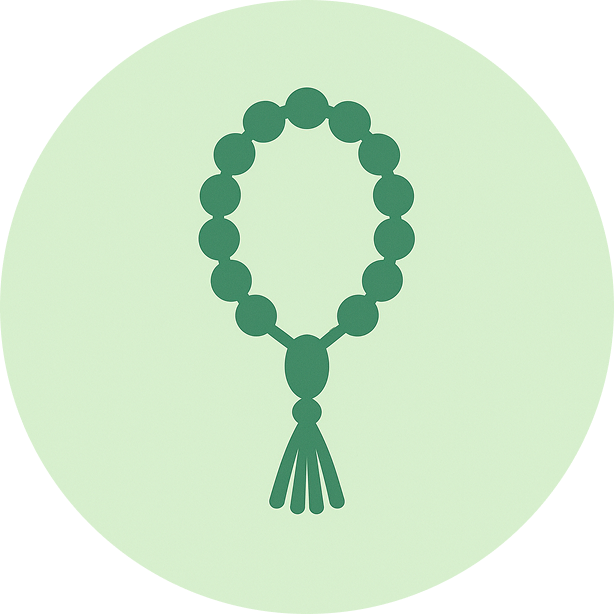
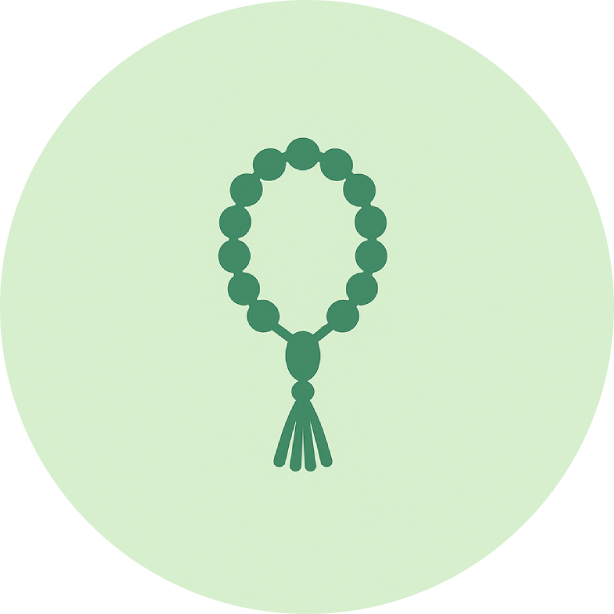
testing 2

Changed region(s): [[0.3094, 0.1238, 0.6808, 0.8355]]

diff --git a/app/_layout.js b/app/_layout.js
@@ -2,6 +2,11 @@ import { GestureHandlerRootView } from 'react-native-gesture-handler';
 import { Drawer } from 'expo-router/drawer';
 import CustomDrawerContent from '../components/CustomDrawerContent';
 import { DhikrProvider } from '../context/DhikrContext';
+import { I18nManager } from 'react-native';
+
+// Force LTR layout regardless of device language
+I18nManager.allowRTL(false);
+I18nManager.forceRTL(false);
 
 export default function Layout() {
     return (

diff --git a/context/DhikrContext.js b/context/DhikrContext.js
@@ -3,7 +3,7 @@ import AsyncStorage from '@react-native-async-storage/async-storage';
 import * as FileSystem from 'expo-file-system/legacy';
 import * as Sharing from 'expo-sharing';
 import * as DocumentPicker from 'expo-document-picker';
-import { Alert, Platform, I18nManager } from 'react-native';
+import { Alert, Platform } from 'react-native';
 import { TRANSLATIONS } from '../constants/constants';
 
 const DhikrContext = createContext();

diff --git a/README_AR.md b/README_AR.md
@@ -1,0 +1,130 @@
+<div dir="rtl">
+
+# سبّح - عداد الأذكار الرقمي
+
+<div align="center">
+
+![شعار سبّح](./assets/icon.png)
+
+**مسبحة إلكترونية للأذكار والصلوات**
+
+*مجانية وبدون إعلانات أو متتبعات. صُنعت خالصة لوجه الله.*
+
+[![GitHub](https://img.shields.io/badge/GitHub-SlaveOfGod1-blue?logo=github)](https://github.com/SlaveOfGod1/Sabbeh)
+
+[English](./README.md)
+
+</div>
+
+---
+
+## ✨ المميزات
+
+### 🔢 العداد الرقمي
+- شاشة رقمية كبيرة وواضحة
+- تتبع الجولات تلقائياً عند الوصول للهدف
+- إعادة ضبط العداد بضغطة واحدة
+
+### 📿 جلسات الذكر
+- **أذكار مخصصة**: أضف أذكارك الخاصة مع عناوين وأهداف مخصصة
+- **التعديل والحذف**: اضغط مطولاً على أي ذكر لتعديله أو حذفه
+- حفظ التقدم لكل جلسة ذكر
+
+### 🎨 الثيمات والتخصيص
+- **٤ ثيمات جاهزة**: فيروزي، بنفسجي، أزرق، وردي
+- **منتقي الألوان**: اختر أي لون يعجبك
+- **الوضع الليلي**: ثيم داكن للاستخدام المريح ليلاً
+
+### 🌍 دعم متعدد اللغات
+مترجم بالكامل لـ ٧ لغات:
+- English (الإنجليزية)
+- العربية
+- Türkçe (التركية)
+- 中文 (الصينية)
+- Bahasa Melayu (المالزية)
+- اردو (الأردية)
+- 日本語 (اليابانية)
+
+### 💾 إدارة البيانات
+- **تصدير الملف الشخصي**: احفظ بياناتك كملف JSON
+- **استيراد الملف الشخصي**: استعد بياناتك من نسخة احتياطية
+- **إعادة ضبط البيانات**: امسح جميع البيانات وابدأ من جديد
+
+### 🛡 الخصوصية أولاً
+- ✅ بدون إعلانات
+- ✅ بدون متتبعات
+- ✅ بدون جمع بيانات
+- ✅ يعمل بدون إنترنت
+
+---
+
+## 🚀 البدء
+
+### المتطلبات
+- [Node.js](https://nodejs.org/) (الإصدار 18 أو أعلى)
+- [npm](https://www.npmjs.com/) أو [yarn](https://yarnpkg.com/)
+- [Expo CLI](https://docs.expo.dev/get-started/installation/)
+
+### التثبيت
+
+1. **استنساخ المستودع**
+   ```bash
+   git clone https://github.com/SlaveOfGod1/Sabbeh.git
+   cd Sabbeh
+   ```
+
+2. **تثبيت التبعيات**
+   ```bash
+   npm install
+   ```
+
+3. **تشغيل خادم التطوير**
+   ```bash
+   npx expo start
+   ```
+
+4. **التشغيل على جهازك**
+   - امسح رمز QR بتطبيق [Expo Go](https://expo.dev/client)
+   - أو اضغط `a` للمحاكي الأندرويد / `i` لمحاكي iOS
+
+---
+
+## 🤝 المساهمة
+
+المساهمات مرحب بها! يمكنك:
+- الإبلاغ عن الأخطاء عبر [GitHub Issues](https://github.com/SlaveOfGod1/Sabbeh/issues)
+- إرسال طلبات السحب
+- اقتراح ميزات جديدة
+
+---
+
+## 📄 الترخيص
+
+هذا المشروع **مجاني للاستخدام الشخصي فقط**.
+
+> ⚠ **تنبيه هام**
+> 
+> - ❌ **الاستخدام التجاري ممنوع منعاً باتاً**
+> - ❌ **بيع أو إعادة توزيع التطبيق لأغراض ربحية غير مسموح**
+> - ❌ **رفع التطبيق على متاجر التطبيقات لأغراض تجارية محظور**
+> - ✅ الاستخدام الشخصي فقط
+> 
+> **مخالفة هذه الشروط ستؤدي إلى إشعار إزالة DMCA.**
+
+---
+
+## 🤲 دعاء
+
+اللهم تقبل منا هذا العمل واجعله نافعاً للأمة.
+
+*اللهم تقبل منا إنك أنت السميع العليم*
+
+---
+
+<div align="center">
+
+**صُنع خالصاً لوجه الله**
+
+</div>
+
+</div>

diff --git a/README.md b/README.md
@@ -1,0 +1,157 @@
+# Sabbeh - Digital Dhikr Counter
+
+<div align="center">
+
+![Sabbeh Logo](./assets/icon.png)
+
+**A beautiful digital counter for your dhikr and prayers.**
+
+*Free of Ads and Trackers. Made for the sake of Allah.*
+
+[![GitHub](https://img.shields.io/badge/GitHub-SlaveOfGod1-blue?logo=github)](https://github.com/SlaveOfGod1/Sabbeh)
+[![License](https://img.shields.io/badge/License-Open%20Source-green)]()
+
+[عربي](./README_AR.md)
+
+</div>
+
+---
+
+## ✨ Features
+
+### 🔢 Digital Counter
+- Large, easy-to-read digital display
+- Track rounds automatically when target is reached
+- Reset counter with one tap
+
+### 📿 Dhikr Sessions
+- **Custom Dhikrs**: Add your own dhikrs with custom titles and targets
+- **Edit & Delete**: Long-press any dhikr to modify or remove it
+- Progress saved for each dhikr session
+
+### 🎨 Themes & Customization
+- **4 Preset Themes**: Teal, Purple, Blue, Rose
+- **Custom Color Picker**: Choose any color you like
+- **Night Mode**: Dark theme for comfortable use at night
+
+### 🌍 Multi-Language Support
+Fully translated in 7 languages:
+- English
+- العربية (Arabic)
+- Türkçe (Turkish)
+- 中文 (Chinese)
+- Bahasa Melayu (Malay)
+- اردو (Urdu)
+- 日本語 (Japanese)
+
+### 💾 Data Management
+- **Export Profile**: Save your data as a JSON file
+- **Import Profile**: Restore your data from a backup
+- **Reset Data**: Clear all data and start fresh
+
+### 🛡 Privacy First
+- ✅ No Ads
+- ✅ No Trackers
+- ✅ No Data Collection
+- ✅ Works Offline
+
+---
+
+## 📱 Screenshots
+
+*Coming soon*
+
+---
+
+## 🚀 Getting Started
+
+### Prerequisites
+- [Node.js](https://nodejs.org/) (v18 or higher)
+- [npm](https://www.npmjs.com/) or [yarn](https://yarnpkg.com/)
+- [Expo CLI](https://docs.expo.dev/get-started/installation/)
+
+### Installation
+
+1. **Clone the repository**
+   ```bash
+   git clone https://github.com/SlaveOfGod1/Sabbeh.git
+   cd Sabbeh
+   ```
+
+2. **Install dependencies**
+   ```bash
+   npm install
+   ```
+
+3. **Start the development server**
+   ```bash
+   npx expo start
+   ```
+
+4. **Run on your device**
+   - Scan the QR code with [Expo Go](https://expo.dev/client) app
+   - Or press `a` for Android emulator / `i` for iOS simulator
+
+### Building The App
+
+```bash
+# Install EAS CLI
+npm install -g eas-cli
+
+# Login to Expo
+eas login
+
+# Build APK for Android
+eas build --platform android --profile preview
+
+```
+
+---
+
+## 🛠 Tech Stack
+
+- **React Native** - Cross-platform mobile framework
+- **Expo** - Development platform
+- **Expo Router** - File-based navigation
+- **AsyncStorage** - Local data persistence
+- **Expo Linear Gradient** - Beautiful gradient backgrounds
+
+---
+
+## 🤝 Contributing
+
+Contributions are welcome! Feel free to:
+- Report bugs via [GitHub Issues](https://github.com/SlaveOfGod1/Sabbeh/issues)
+- Submit pull requests
+- Suggest new features
+
+---
+
+## 📄 License
+
+This project is **free for personal use only**.
+
+> ⚠ **IMPORTANT NOTICE**
+> 
+> - ❌ **Commercial use is strictly prohibited**
+> - ❌ **Selling or redistributing this app for profit is not allowed**
+> - ❌ **Uploading to app stores for commercial purposes is forbidden**
+> - ✅ Personal use only
+> 
+> **Violation of these terms will result in a DMCA takedown notice.**
+
+---
+
+## 🤲 Dua
+
+May Allah accept this work and make it beneficial for the Ummah.
+
+*اللهم تقبل منا إنك أنت السميع العليم*
+
+---
+
+<div align="center">
+
+**Made for the sake of Allah**
+
+</div>
